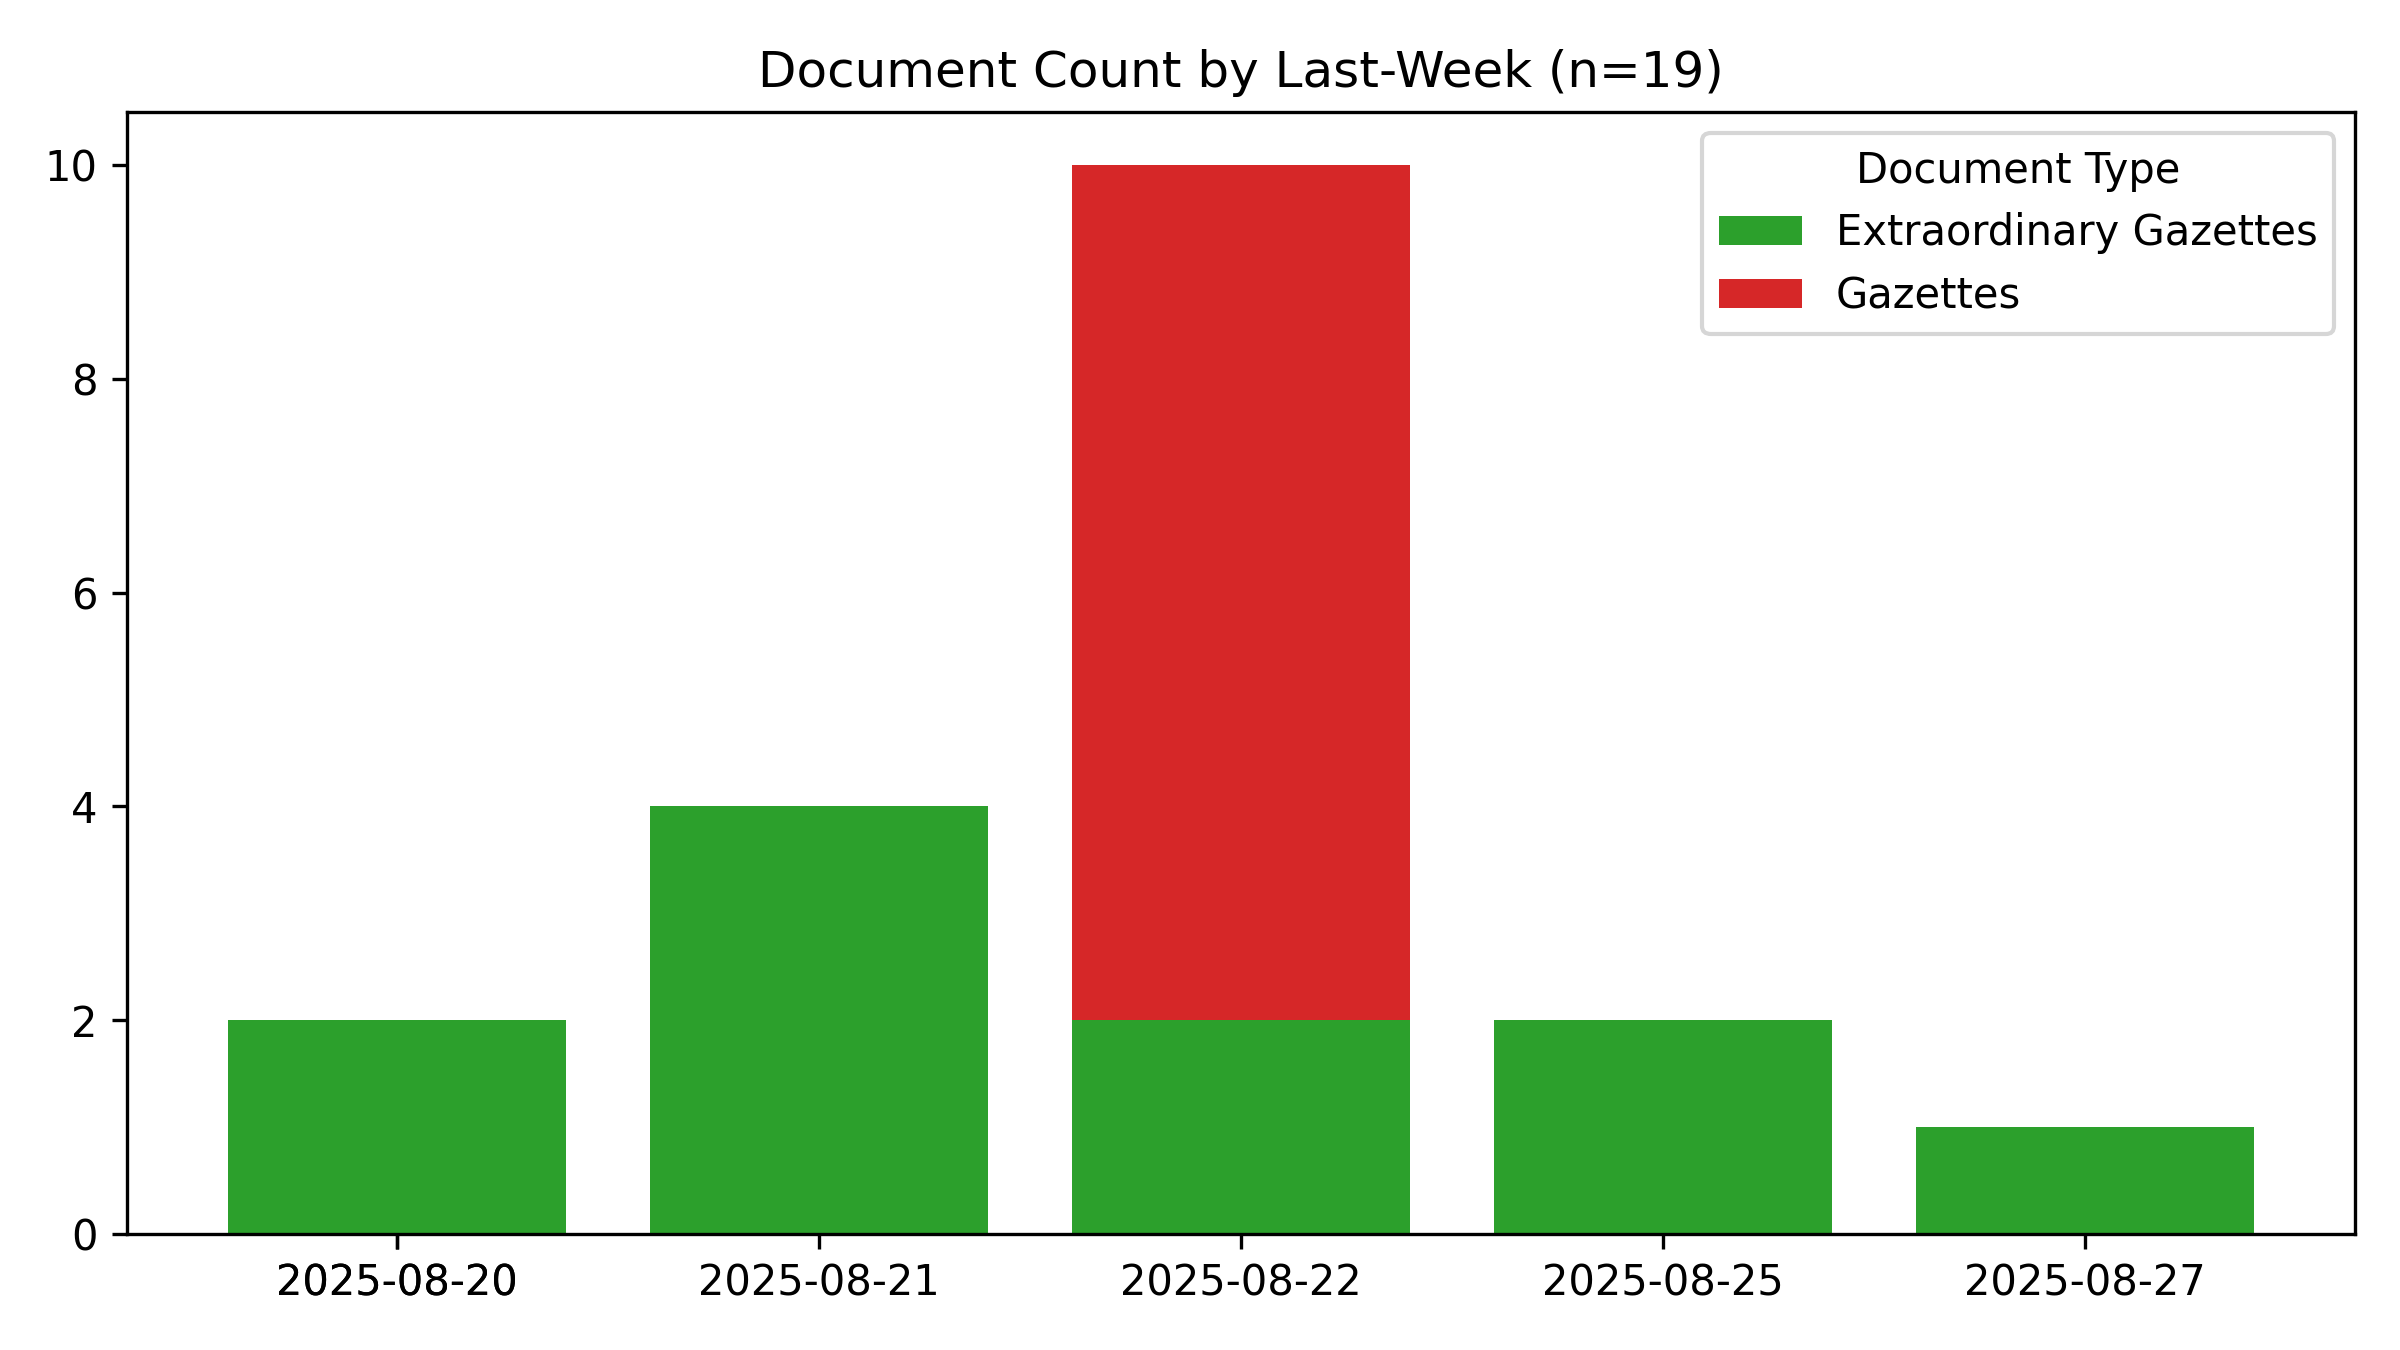
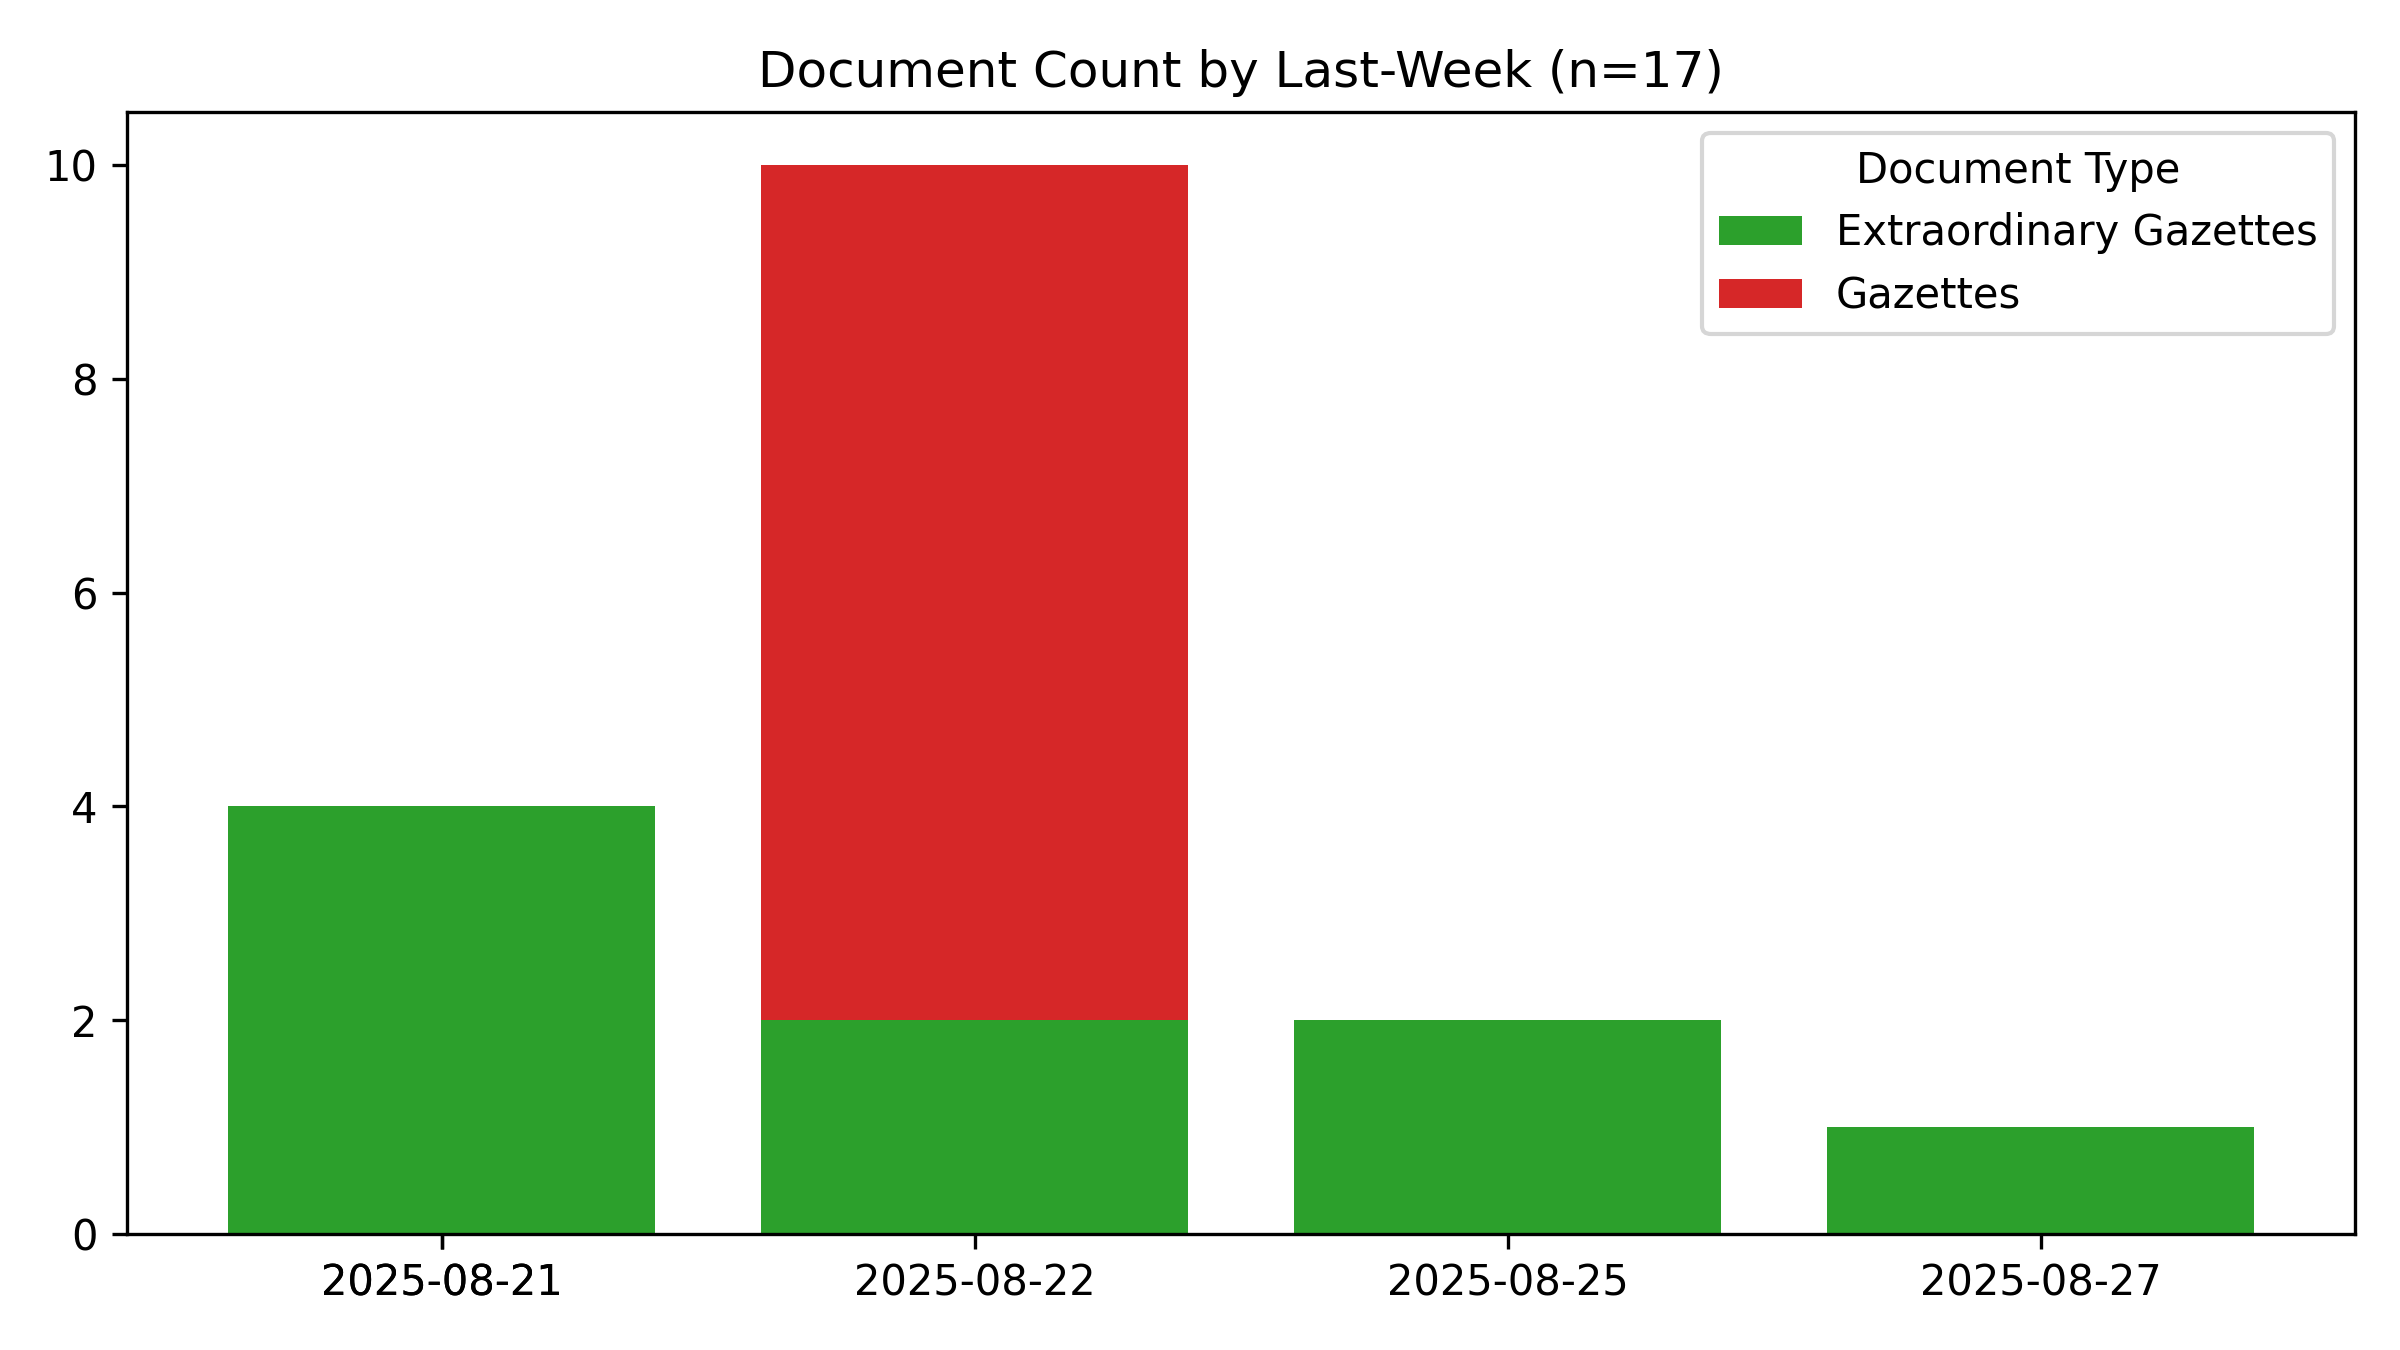
🤖 [build_readme.yml] 2025-08-28-0015

Changed region(s): [[0.0938, 0.1244, 0.8125, 0.9644], [0.8125, 0.9333, 0.9062, 0.9644], [0.6875, 0.0311, 0.7188, 0.0622]]

diff --git a/README.md b/README.md
@@ -1,6 +1,6 @@
 # #SriLanka 🇱🇰 - Legal Documents #Dataset
 
-*Last Updated **2025-08-28 05:12:48**.*
+*Last Updated **2025-08-28 05:45:25**.*
 
 **44,447** documents (24.3 MB), from 1981-01-22 to 2025-08-27.
 
@@ -54,7 +54,7 @@ For best results, use a desktop browser.
 
 ## Recent Documents (Published during the last 7 days)
 
-**19** Documents
+**17** Documents
 
 - 🚨 [2025-08-27] [Presidential Secretariat - Public Security Ordinance (Chapter 40) Order](https://github.com/nuuuwan/lk_legal_docs_data/tree/data_2020s/data/extra-gazettes/2025/2451-15)
 - 🚨 [2025-08-25] [Ministry of Youth Affairs and Sports - Regulations Made by the Minister of Youth Affairs and Sports under Sections 32 & 33 of Sports Law No. 25 of 1973](https://github.com/nuuuwan/lk_legal_docs_data/tree/data_2020s/data/extra-gazettes/2025/2451-09)
@@ -73,5 +73,3 @@ For best results, use a desktop browser.
 - 🚨 [2025-08-21] [M/ of Education, Higher Education and Vocational Education- Universities Act, No. 16 of 1978 Sri Lanka Technology Campus (PVT) Limited](https://github.com/nuuuwan/lk_legal_docs_data/tree/data_2020s/data/extra-gazettes/2025/2450-41)
 - 🚨 [2025-08-21] [M/ of Education, Higher Education and Vocational Education- Universities Act, No. 16 of 1978 Degree Awarding Institute Order (SLIIT)](https://github.com/nuuuwan/lk_legal_docs_data/tree/data_2020s/data/extra-gazettes/2025/2450-40)
 - 🚨 [2025-08-21] [Ministry of Defence - Amendment to the Consolidated List under Regulation 4 (2) (B) United Nations Regulations No. 2 of 2012](https://github.com/nuuuwan/lk_legal_docs_data/tree/data_2020s/data/extra-gazettes/2025/2450-39)
-- 🚨 [2025-08-20] [Presidential- Appointed of the Inspector General of Police](https://github.com/nuuuwan/lk_legal_docs_data/tree/data_2020s/data/extra-gazettes/2025/2450-28)
-- 🚨 [2025-08-20] [Presidential Secretariat- Establishment of a Presidential Task Force for the Implementation of the Sri Lanka Tourism Development Programme](https://github.com/nuuuwan/lk_legal_docs_data/tree/data_2020s/data/extra-gazettes/2025/2450-27)
